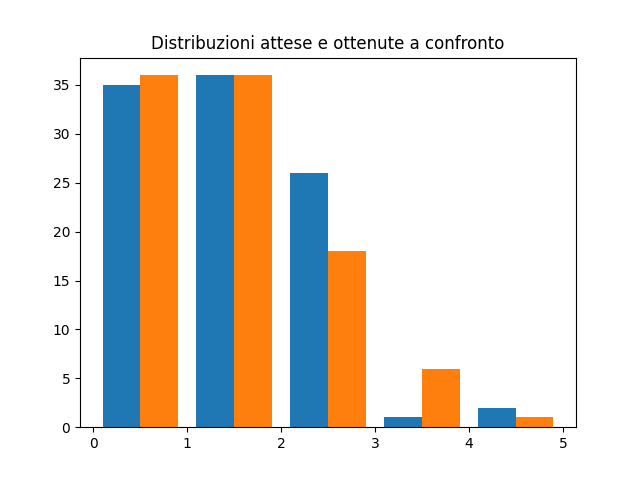
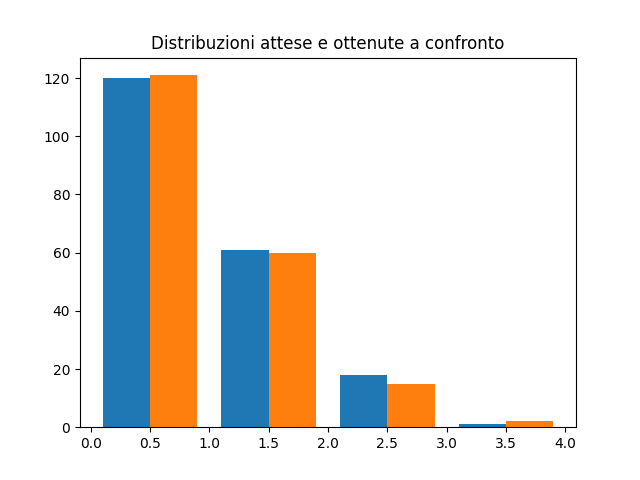
Aggiustato lo spacing

diff --git a/main.py b/main.py
@@ -15,7 +15,7 @@ def media_varianza(arr):
     devianza = 0
 
     for item in arr:  # Questa riga fa la media aritmetica
-        med = med + item
+        med = float(med) + float(item)
     med = med / len(arr)
     print("La media è: ", med)
 
@@ -59,9 +59,7 @@ def poisson_attesa(nprov, nbinor, orarr):
     mu = nprov/nbinor
     k = range(0, len(set(orarr)))
     pmf = []
-    print(len(set(orarr)))
 
-    print(k)
     for item in k:
         pmfi = decimal.Decimal((math.e**(-mu)*mu**k[item]))/(decimal.Decimal(math.factorial(k[item])))*decimal.Decimal(nbinor)
         pmf.append(pmfi)
@@ -92,15 +90,24 @@ def poissonconfronto(a, b, newlen):
     plt.show()
 
 
-events = 1000  # Numero di eventi generati
+events = 100  # Numero di eventi generati
 nbins = 200   # Numero di bins
 minimo = 0
 massimo = 10
 Dx = massimo/nbins
 
 slist = genera_numeri(minimo, massimo, events)
+
 aarray, barray, carray = distribuzione_uniforme(slist, minimo, massimo, Dx)
-array1 = poisson(aarray, minimo)
+print("La media e la varianza della uniforme")
+media_varianza(aarray)
+
+array1, barray1, carray1 = poisson(aarray, minimo)
+print("La media e la varianza della poisson ottenuta")
+media_varianza(array1)
+
 array2, newlen2 = poisson_attesa(events, nbins, slist)
+print("La media e la varianza della poisson attesa")
+media_varianza(array2)
 
 poissonconfronto(aarray, array2, newlen2)
